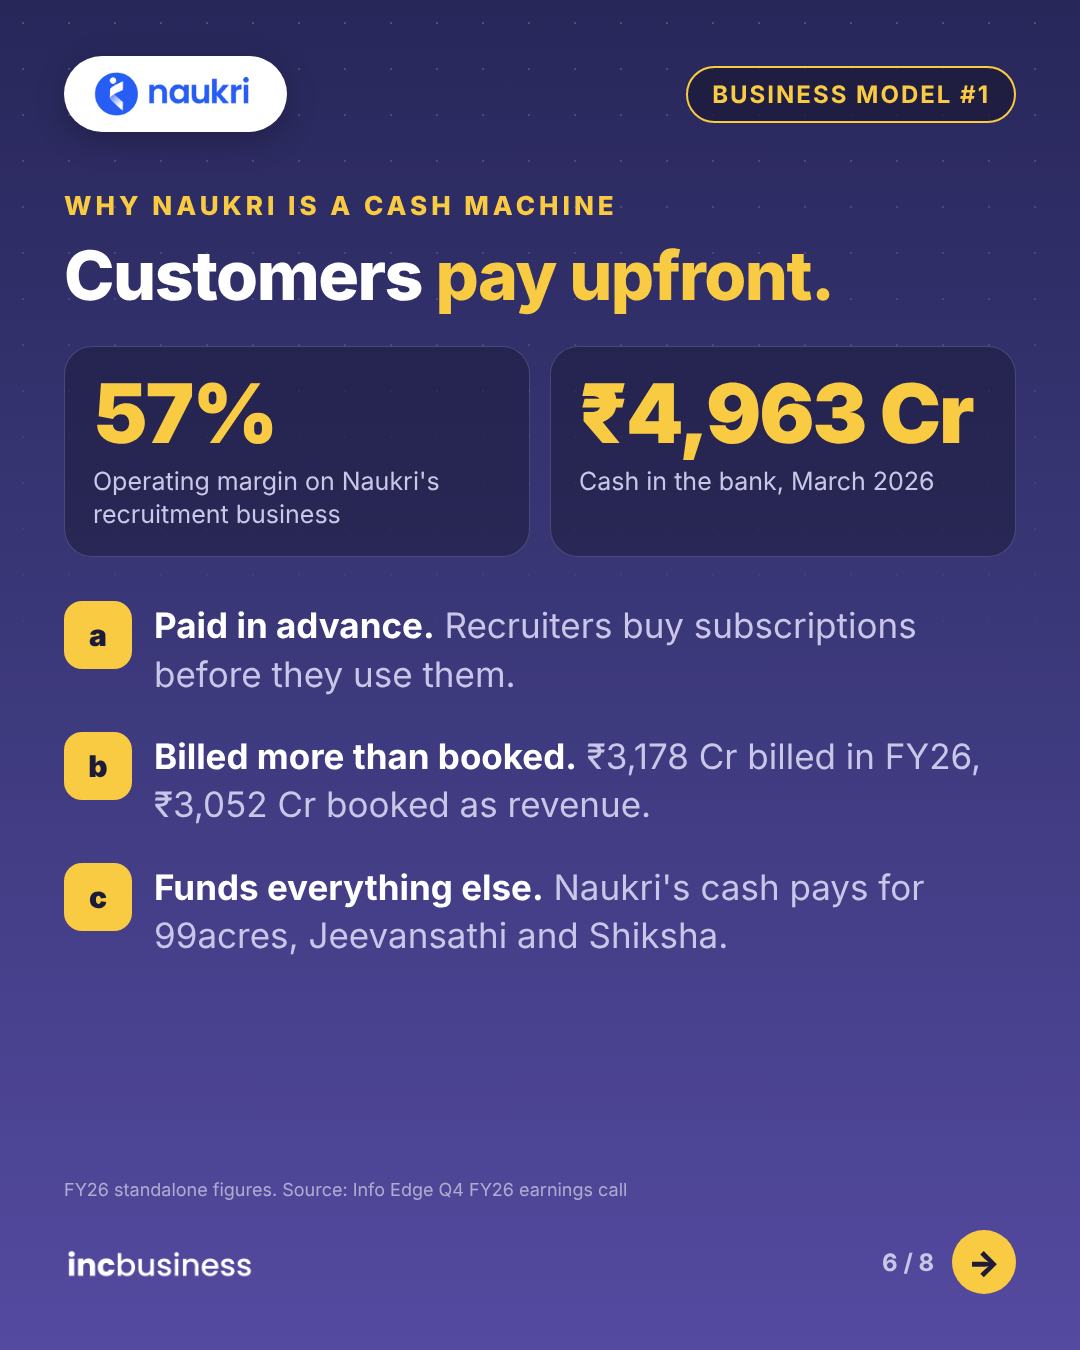
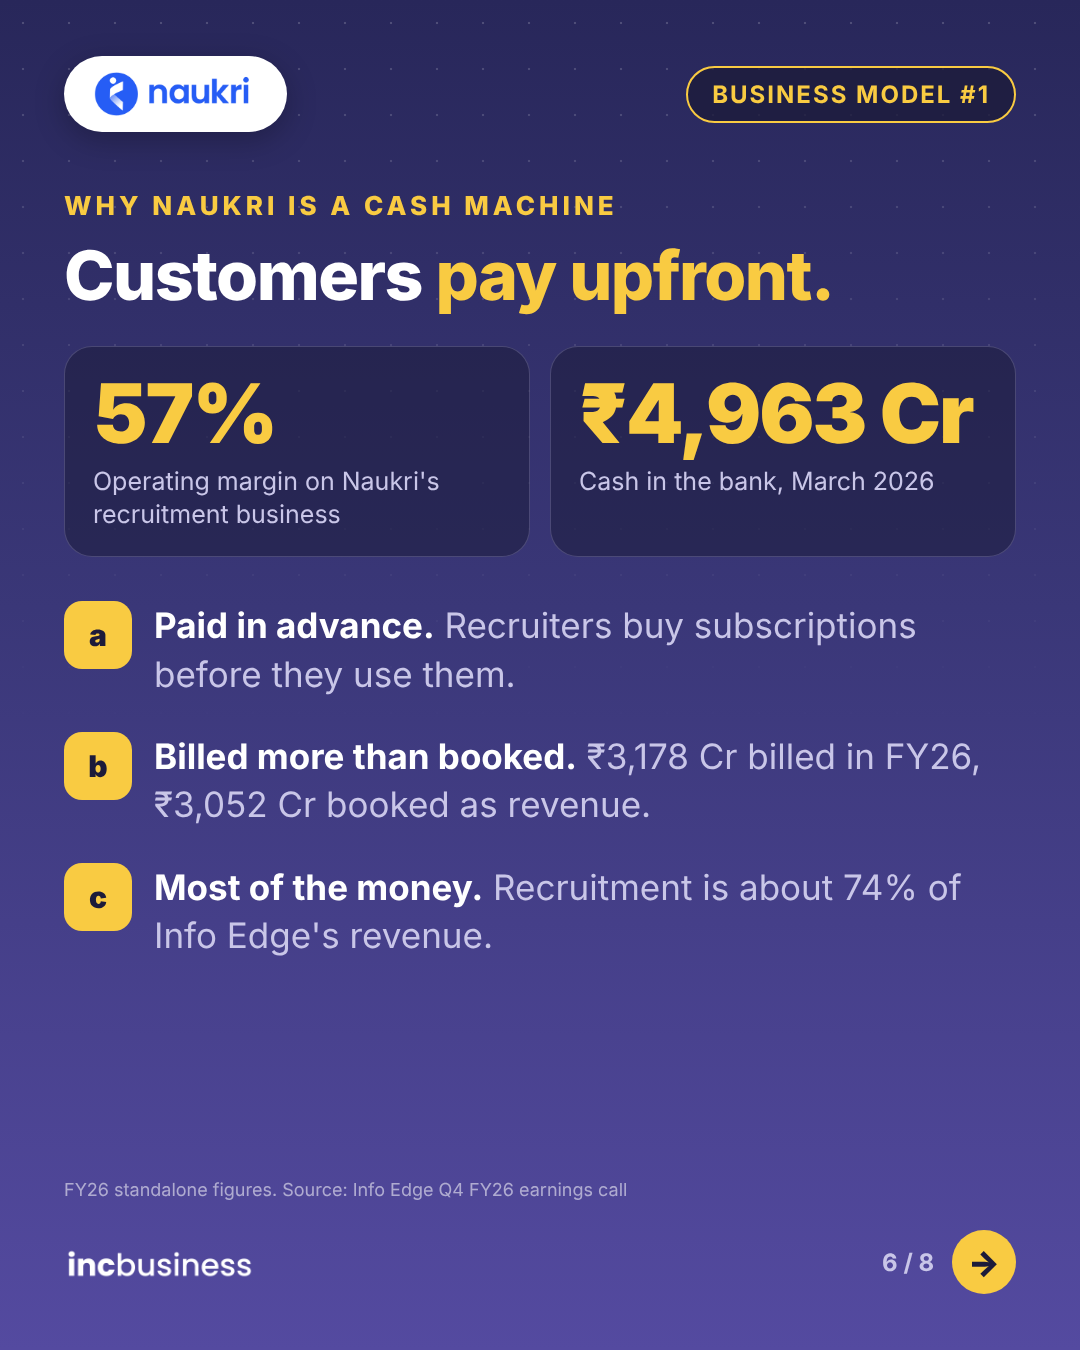
Remove unsourced claims from Apollo blog and Naukri slide 6
Claude-Session: https://claude.ai/code/session_01LRpu7HcvJNnoqYBKXriVUx

Changed region(s): [[0.1528, 0.6222, 0.8861, 0.7156]]

diff --git a/carousels/info-edge/slides.js b/carousels/info-edge/slides.js
@@ -155,7 +155,7 @@ module.exports = {
         <div class="pts">
           <div class="pt"><div class="k">a</div><div class="t"><b>Paid in advance.</b> <span>Recruiters buy subscriptions before they use them.</span></div></div>
           <div class="pt"><div class="k">b</div><div class="t"><b>Billed more than booked.</b> <span>₹3,178 Cr billed in FY26, ₹3,052 Cr booked as revenue.</span></div></div>
-          <div class="pt"><div class="k">c</div><div class="t"><b>Funds everything else.</b> <span>Naukri's cash pays for 99acres, Jeevansathi and Shiksha.</span></div></div>
+          <div class="pt"><div class="k">c</div><div class="t"><b>Most of the money.</b> <span>Recruitment is about 74% of Info Edge's revenue.</span></div></div>
         </div>`,
       source: 'FY26 standalone figures. Source: Info Edge Q4 FY26 earnings call',
     },

diff --git a/content/blog/apollo-hospitals-business-model.md b/content/blog/apollo-hospitals-business-model.md
@@ -97,7 +97,7 @@ Apollo earns from **three revenue streams**:
 |---|---|
 | 2024 | Advent International invests **₹2,475 Cr for a 12.1% stake** in Apollo's pharmacy arm |
 | 2025 | Plan announced: pharmacy + Apollo 24/7 to be demerged into **Apollo Healthtech Ltd** |
-| 2025 | **Keimed**, India's largest pharma wholesaler, to merge into the same company |
+| 2025 | **Keimed**, a medicine wholesaler, to merge into the same company |
 | 2025 | Competition Commission of India (CCI) approves the restructuring |
 | Target | ~₹25,000 Cr revenue at listing; listing by **Q4 FY27** |
 
